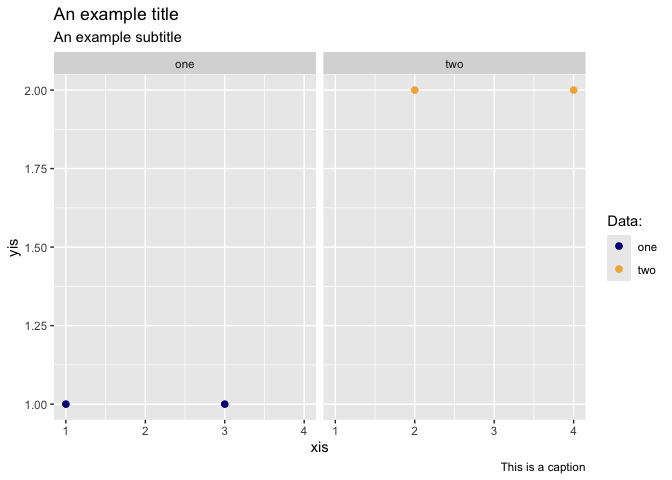
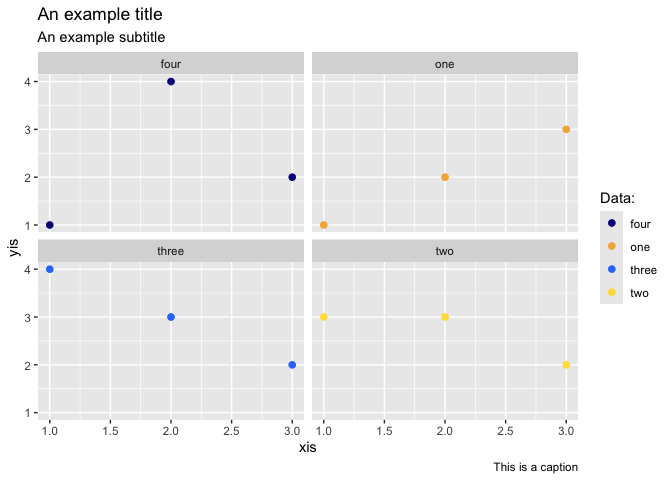
A little more detail

diff --git a/README.md b/README.md
@@ -13,6 +13,8 @@ the University of Otago Brand Guide (so colours and fonts) in R, as of
 early September 2025.
 https://www.otago.ac.nz/marketing-services/resources/university-of-otago-brand-guide
 
+### Colours
+
 A list of defined colours (to give both the Māori and English names)
 might be
 
@@ -46,13 +48,16 @@ unicol <- c("StAndrewsBlue" = "#060d87",
 With this setup colours can be referred to by count.
 
 ``` r
-xmpldata <- data.frame(xis = c(1,2),
-                         yis = c(1,2),
-                         groupis = c("one","two"))
+xmpldata <- data.frame(xis = c(1,2,3,1,2,3,1,2,3,1,2,3),
+                         yis = c(1,2,3,3,3,2,4,3,2,1,4,2),
+                         groupis = c("one","one","one",
+                                     "two","two","two",
+                                     "three","three","three",
+                                     "four","four","four"))
 
 ggplot(xmpldata, aes(x=xis,y=yis,colour=groupis)) +
   geom_point(size=4) +
-  scale_colour_manual(values=unname(unicol[c(1,3)]))
+  scale_colour_manual(values=unname(unicol[c(1,2,7,8)]))
 ```
 
 ![](README_files/figure-commonmark/unnamed-chunk-3-1.png)
@@ -60,19 +65,17 @@ ggplot(xmpldata, aes(x=xis,y=yis,colour=groupis)) +
 Or, ar times, referred to by name
 
 ``` r
-xmpldata <- data.frame(xis = c(1,2),
-                         yis = c(1,2),
-                         groupis = c("one","two"))
-library(ggplot2)
 ggplot(xmpldata, aes(x=xis,y=yis)) +
   geom_point(size=4, colour=unicol["RereTārewaKōura"]) 
 ```
 
 ![](README_files/figure-commonmark/unnamed-chunk-4-1.png)
 
+### Font
+
 The standard university font is wickliffe (serif version). There are a
-number of different ways of handling fonts, this example uses the ggtext
-package.
+number of different ways of handling fonts, this example uses the
+ggtext() package.
 
 ``` r
 ggplot(xmpldata, aes(x=xis,y=yis)) +
@@ -85,20 +88,18 @@ ggplot(xmpldata, aes(x=xis,y=yis)) +
 
 ![](README_files/figure-commonmark/unnamed-chunk-5-1.png)
 
+### Themes
+
 Now, themes are deeply a matter of personal opinion, but as a getting
 started, here is some options I like, as a basis for others customising.
 
 Without theme:
 
 ``` r
-moredata <- data.frame(xis = c(1,2,3,4),
-                         yis = c(1,2,1,2),
-                         groupis = c("one","two","one","two"))
-
-ggplot(moredata, aes(x=xis,y=yis, colour=groupis)) +
+ggplot(xmpldata, aes(x=xis,y=yis, colour=groupis)) +
   geom_point(size=2) +
   facet_wrap(~groupis, ncol=2) +
-  scale_colour_manual(name = "Data:", values=unname(unicol[c(1,2)])) +
+  scale_colour_manual(name = "Data:", values=unname(unicol[c(1,2,7,8)])) +
   labs(title = "An example title",
        subtitle = "An example subtitle",
        caption = "This is a caption")
@@ -140,10 +141,10 @@ theme_oudh <- function(){
           panel.spacing=unit(20, "points"))
 }
 
-ggplot(moredata, aes(x=xis,y=yis, colour=groupis)) +
+ggplot(xmpldata, aes(x=xis,y=yis, colour=groupis)) +
   geom_point(size=2) +
   facet_wrap(~groupis, ncol=2) +
-  scale_colour_manual(name = "Data:", values=unname(unicol[c(1,2)])) +
+  scale_colour_manual(name = "Data:", values=unname(unicol[c(1,2,7,8)])) +
   labs(title = "An example title",
        subtitle = "An example subtitle",
        caption = "Source I put in the caption",
@@ -153,3 +154,65 @@ ggplot(moredata, aes(x=xis,y=yis, colour=groupis)) +
 ```
 
 ![](README_files/figure-commonmark/unnamed-chunk-7-1.png)
+
+### Ivory - Rei and facets
+
+The shade of Ivory - Rei is, in my opinion best used as a contrast
+colour to White - Mā where you want to distinguish two similar zones but
+have similarly effective dark colour contrast. In particular, I think a
+good use of it is to distinguish the panel area of the graph from the
+plot background by having the plot background (as above) which solves
+the “making it very clear what facets the titles apply to” problem faced
+by casual readers.
+
+But, an alternative that just accents with Ivory - Rei (so making the
+label contrast stronger but the facets less strongly set apart) is to
+use it in the strip title backgrounds and panel edging.
+
+``` r
+theme_uodh <- function(){
+  theme_minimal(base_family="Wickliffe",
+                base_size = 10) %+replace%  
+    theme(axis.line.x = element_line(linewidth=0.2),
+          axis.line.y = element_line(linewidth=0.2),
+          axis.ticks = element_line(linewidth=0.2),
+          axis.title.y.left = element_text(margin = margin(t = 5, r = 7, b = 5, l = 5, unit = "pt"),
+                                           size=12),
+          axis.title.x.bottom = element_text(margin = margin(t = 7, r = 5, b = 0, l = 5, unit = "pt"),
+                                             size=12),
+          panel.background = element_rect(fill = "#FFFFFF", colour = unicol["Rei"],
+                                          , linewidth=1),
+          panel.grid = element_blank(),
+          plot.title.position = "plot",
+          plot.title = element_text(lineheight = 1.18, size=14,
+                                    margin=margin(t = 5, r = 5, b = 10, l = 10, unit = "pt"),
+                                    hjust=0, vjust=0),
+          plot.subtitle = element_text(lineheight = 1.18, size=12,
+                                    margin=margin(t = 0, r = 5, b = 10, l = 10, unit = "pt"),
+                                    hjust=0),
+          plot.background = element_rect(fill = "#FFFFFF", colour="#FFFFFF"),
+          plot.caption = element_text(margin=margin(t = 2, r = 5, b = 5, l = 5, unit = "pt"),
+                                      lineheight = 1.15,
+                                      size=8, hjust=1),
+          plot.caption.position = "plot",
+          strip.background = element_rect(fill=unicol["Rei"], colour=unicol["Rei"],
+                                          linewidth=0.3),
+          strip.text = element_text(size=10,
+                                    margin=margin(t = 4, r = 8, b = 4, l = 8, unit = "pt")),
+          plot.margin = margin(t=10,r=10,b=10,l=10),
+          panel.spacing=unit(10, "points"))
+}
+
+ggplot(xmpldata, aes(x=xis,y=yis, colour=groupis)) +
+  geom_point(size=2) +
+  facet_wrap(~groupis, ncol=2) +
+  scale_colour_manual(name = "Data:", values=unname(unicol[c(1,2,7,8)])) +
+  labs(title = "An example title",
+       subtitle = "An example subtitle",
+       caption = "Source I put in the caption",
+       y = "y axis title",
+       x = "x axis title") +
+  theme_uodh()
+```
+
+![](README_files/figure-commonmark/unnamed-chunk-8-1.png)
